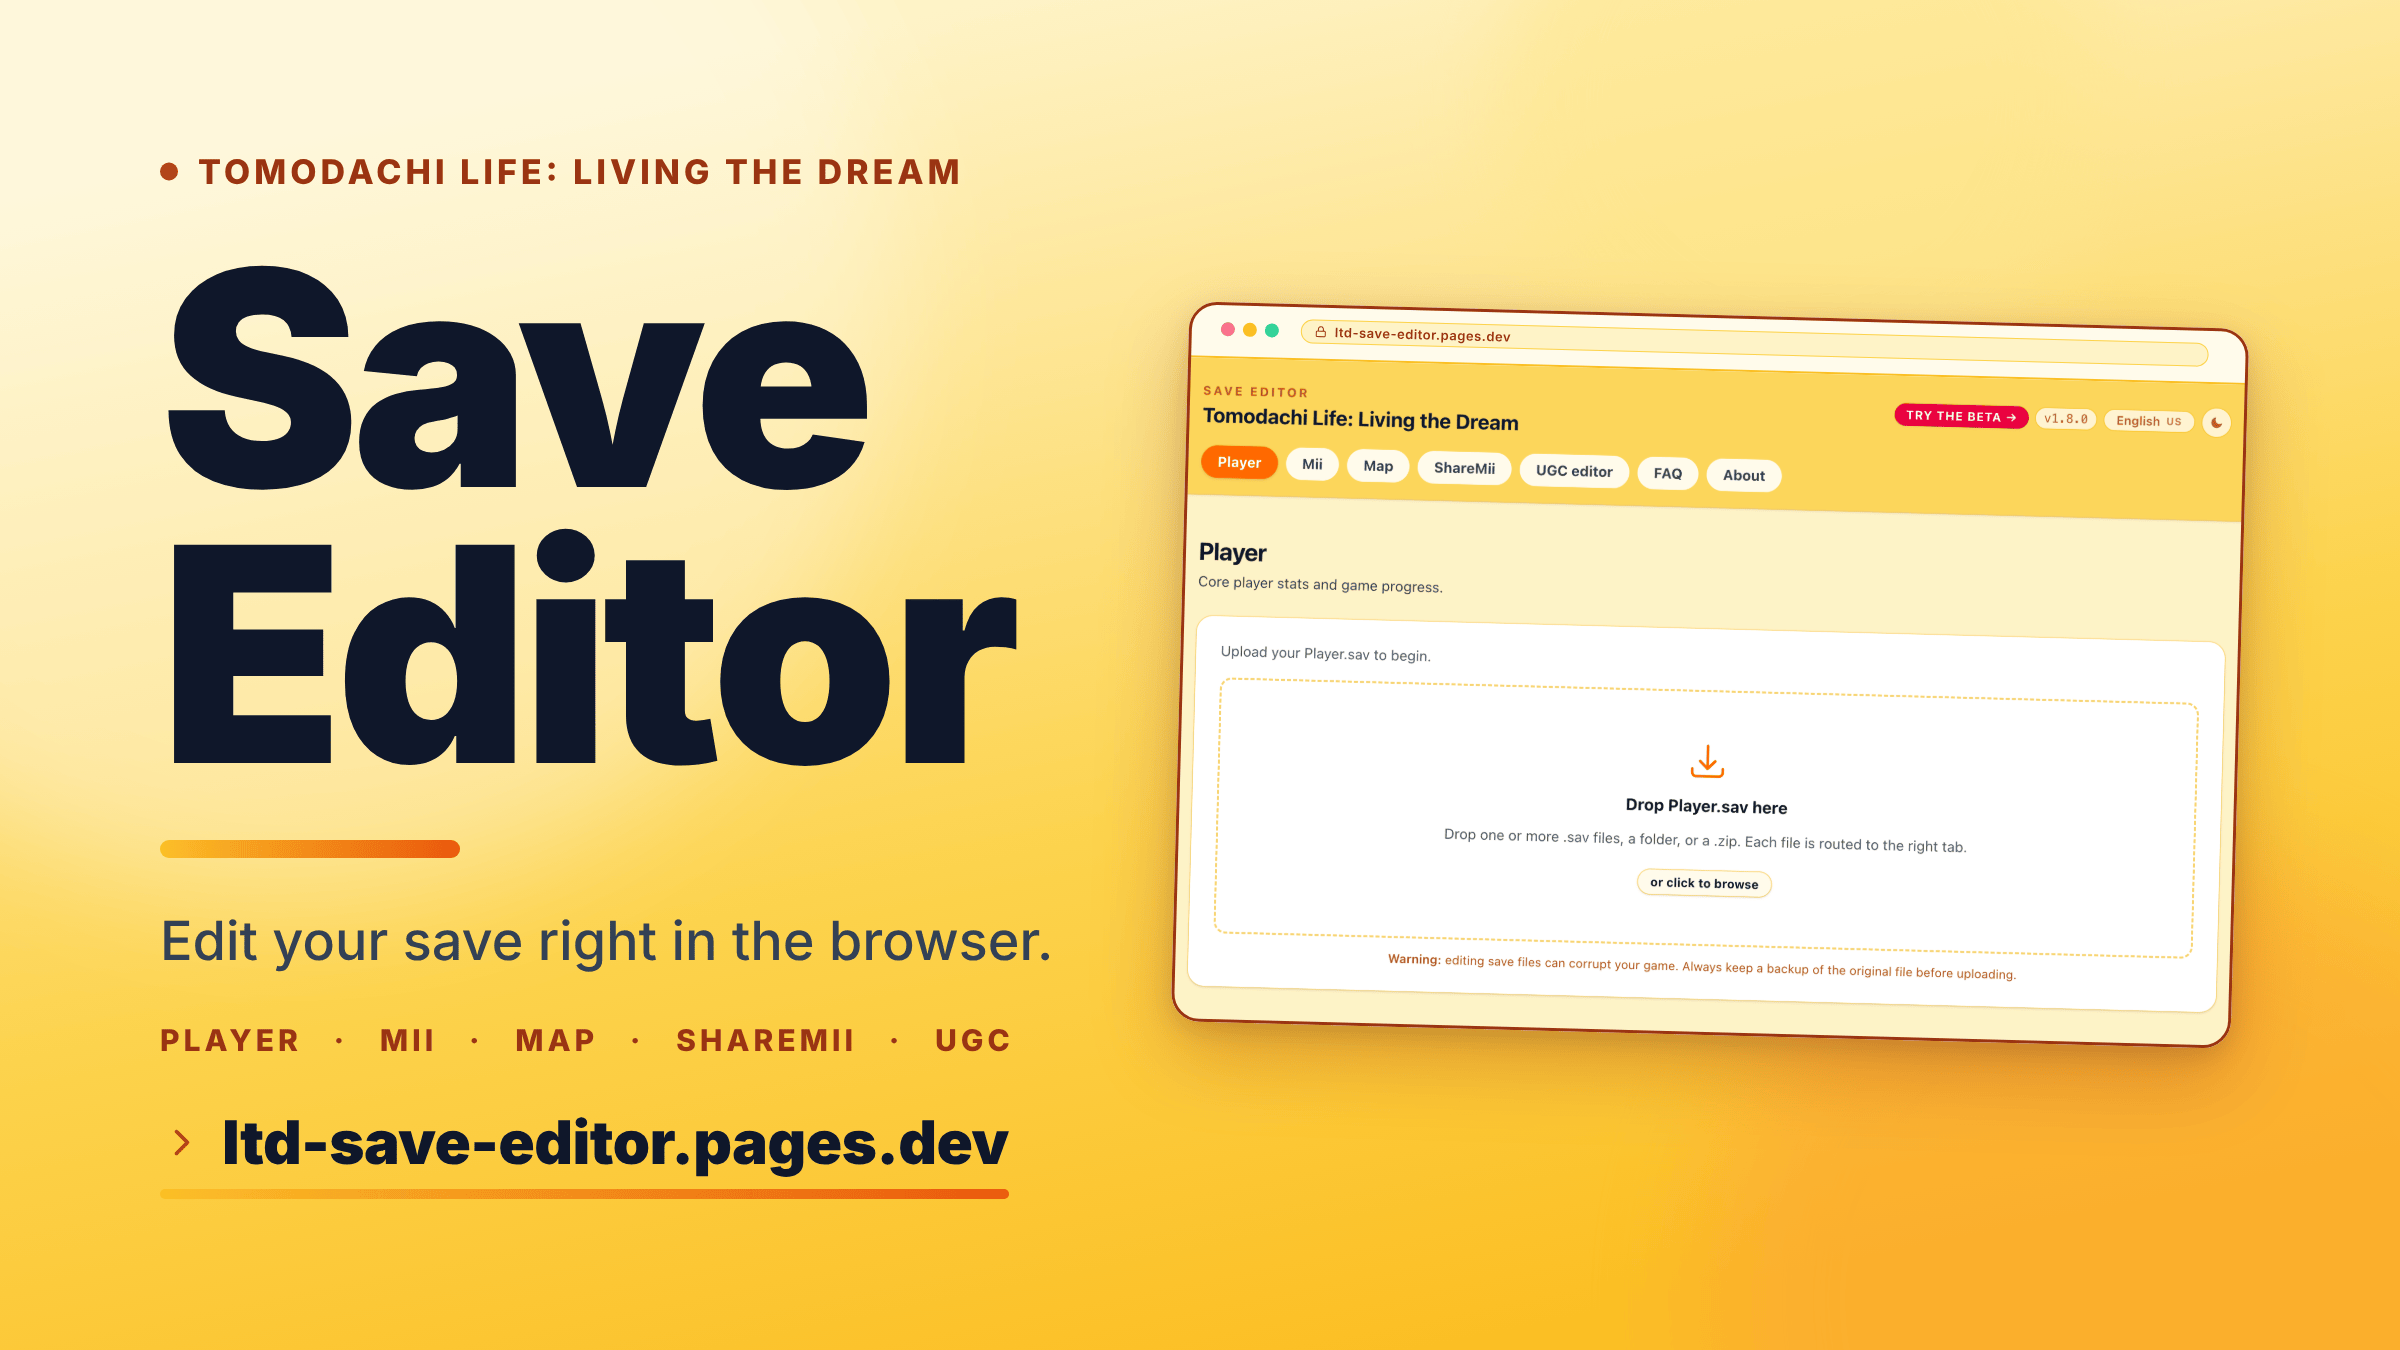
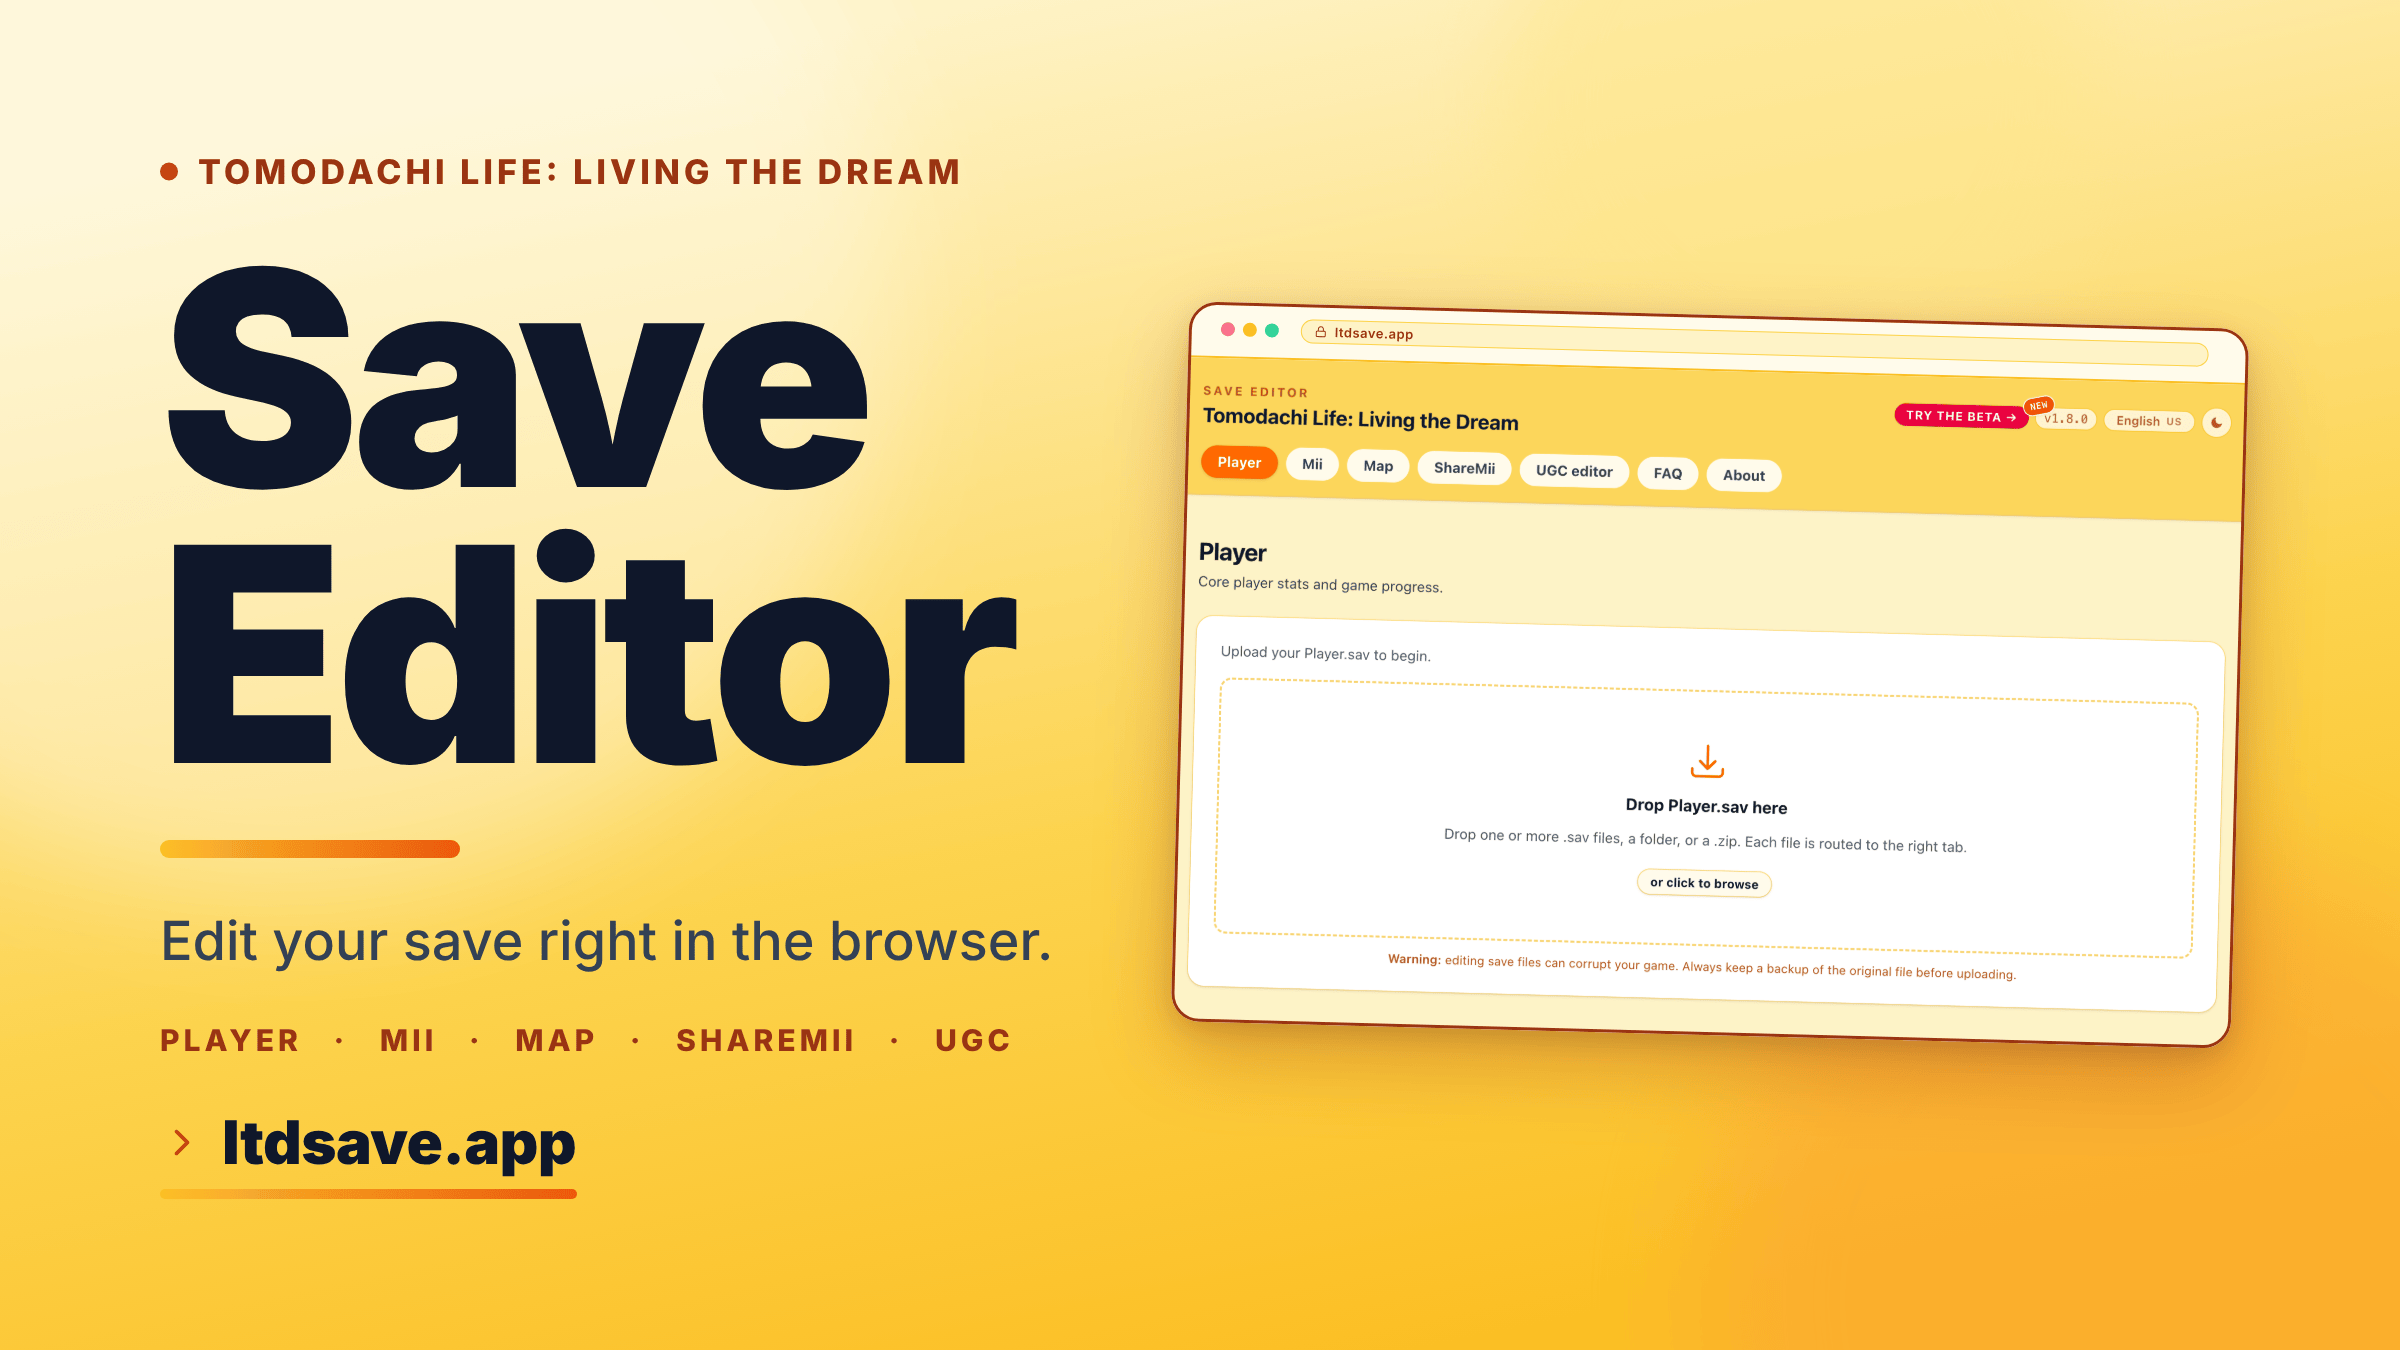
chore: move to ltdsave.app

Changed region(s): [[0.125, 0.8089, 0.4375, 0.9022], [0.8438, 0.28, 0.875, 0.3111]]

diff --git a/src/routes/history/+page.svelte b/src/routes/history/+page.svelte
@@ -19,6 +19,15 @@
   let loading = $state(true);
   let busyId = $state<string | null>(null);
   let downloadingId = $state<string | null>(null);
+  let legacyTarget = $state<string | null>(null);
+
+  $effect(() => {
+    const map: Record<string, string> = {
+      'ltd-save-editor.pages.dev': 'https://ltdsave.app',
+      'beta.ltd-save-editor.pages.dev': 'https://beta.ltdsave.app',
+    };
+    legacyTarget = map[window.location.hostname] ?? null;
+  });
 
   type Pending = { kind: 'one'; snap: HistorySnapshotMeta } | { kind: 'all' };
   let pending = $state<Pending | null>(null);
@@ -156,6 +165,24 @@
     <h1 class="text-2xl font-bold text-content-strong">{$_('history.title')}</h1>
     <p class="text-sm text-content">{$_('history.description')}</p>
   </header>
+
+  {#if legacyTarget}
+    <div
+      role="alert"
+      class="flex gap-3 rounded-2xl bg-surface-muted p-4 text-sm text-content shadow-sm ring-1 ring-edge/60"
+    >
+      <span aria-hidden="true" class="text-lg leading-none">📦</span>
+      <div>
+        <p class="font-bold text-content-strong">This is the old URL.</p>
+        <p class="mt-1">
+          The editor moved to
+          <a href={legacyTarget} class="font-bold text-warn underline"
+            >{legacyTarget.replace('https://', '')}</a
+          >. Your snapshots stay here - download them below and re-upload them on the new site.
+        </p>
+      </div>
+    </div>
+  {/if}
 
   <div
     role="alert"

diff --git a/src/app.html b/src/app.html
@@ -6,6 +6,16 @@
     <link rel="icon" type="image/svg+xml" href="%sveltekit.assets%/favicon.svg" />
     <meta name="theme-color" content="#EA580C" />
     <script>
+      (function () {
+        var legacy = {
+          'ltd-save-editor.pages.dev': 'https://ltdsave.app',
+          'beta.ltd-save-editor.pages.dev': 'https://beta.ltdsave.app',
+        };
+        var target = legacy[location.hostname];
+        if (target && !location.pathname.startsWith('/history')) {
+          location.replace(target + location.pathname + location.search + location.hash);
+        }
+      })();
       try {
         if (localStorage.getItem('ltd-save-editor:theme') === 'dark') {
           document.documentElement.classList.add('dark');

diff --git a/src/routes/+layout.svelte b/src/routes/+layout.svelte
@@ -49,9 +49,12 @@
   type Props = { children: Snippet };
   let { children }: Props = $props();
 
-  const BETA_URL = 'https://beta.ltd-save-editor.pages.dev';
-  const STABLE_URL = 'https://ltd-save-editor.pages.dev';
-  const isBeta = browser && window.location.hostname === 'beta.ltd-save-editor.pages.dev';
+  const BETA_URL = 'https://beta.ltdsave.app';
+  const STABLE_URL = 'https://ltdsave.app';
+  const isBeta =
+    browser &&
+    (window.location.hostname === 'beta.ltdsave.app' ||
+      window.location.hostname === 'beta.ltd-save-editor.pages.dev');
 
   const path = $derived(page.url.pathname);
   let changelogOpen = $state(false);

diff --git a/src/routes/faq/+page.svelte b/src/routes/faq/+page.svelte
@@ -6,8 +6,8 @@
   const repoUrl = 'https://github.com/alexislours/ltd-save-editor';
   const issuesUrl = 'https://github.com/alexislours/ltd-save-editor/issues/new';
   const discordUrl = 'https://discord.gg/YHFNTvXrdE';
-  const stableUrl = 'https://ltd-save-editor.pages.dev';
-  const betaUrl = 'https://beta.ltd-save-editor.pages.dev';
+  const stableUrl = 'https://ltdsave.app';
+  const betaUrl = 'https://beta.ltdsave.app';
 
   const ITEM_IDS = [
     'brick',
@@ -93,7 +93,7 @@
                     >{$_('faq.items.stable_beta.stable_label')}</strong
                   >
                   (<a href={stableUrl} target="_blank" rel="noopener noreferrer" class={linkClass}
-                    >ltd-save-editor.pages.dev</a
+                    >ltdsave.app</a
                   >) - {$_('faq.items.stable_beta.stable_body')}
                 </li>
                 <li>
@@ -101,7 +101,7 @@
                     >{$_('faq.items.stable_beta.beta_label')}</strong
                   >
                   (<a href={betaUrl} target="_blank" rel="noopener noreferrer" class={linkClass}
-                    >beta.ltd-save-editor.pages.dev</a
+                    >beta.ltdsave.app</a
                   >) - {$_('faq.items.stable_beta.beta_body')}
                 </li>
               </ul>